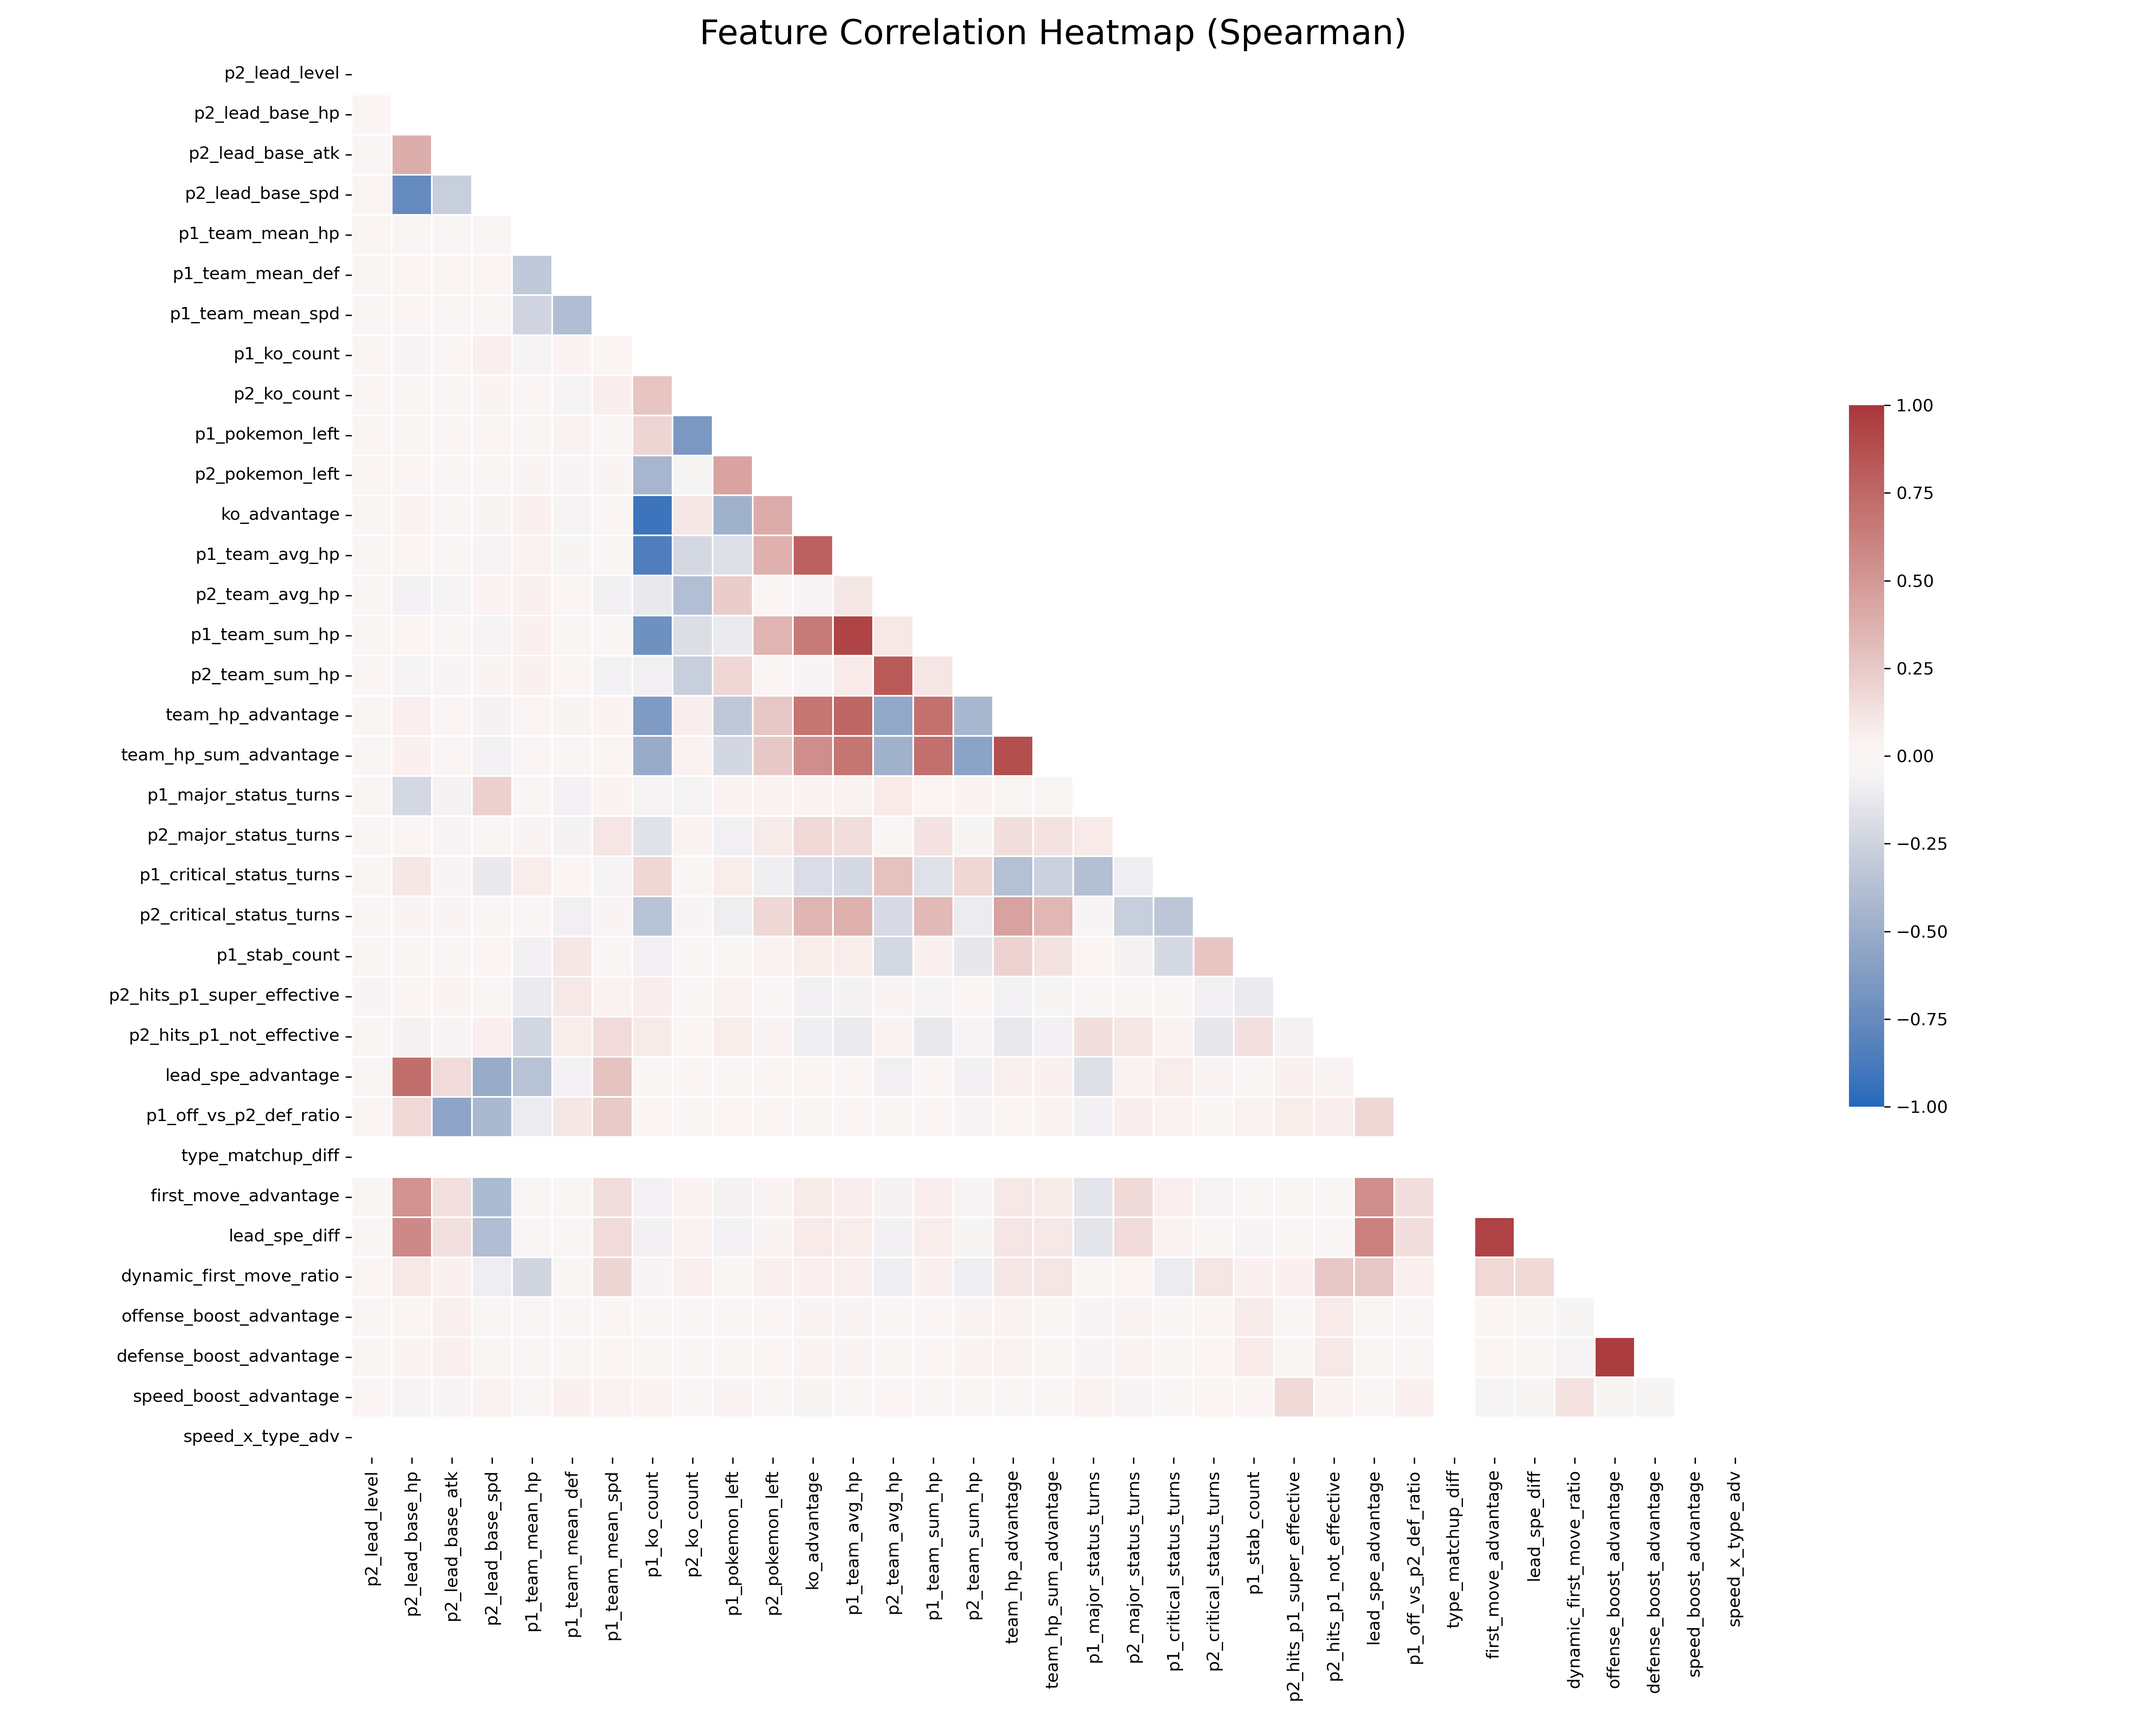
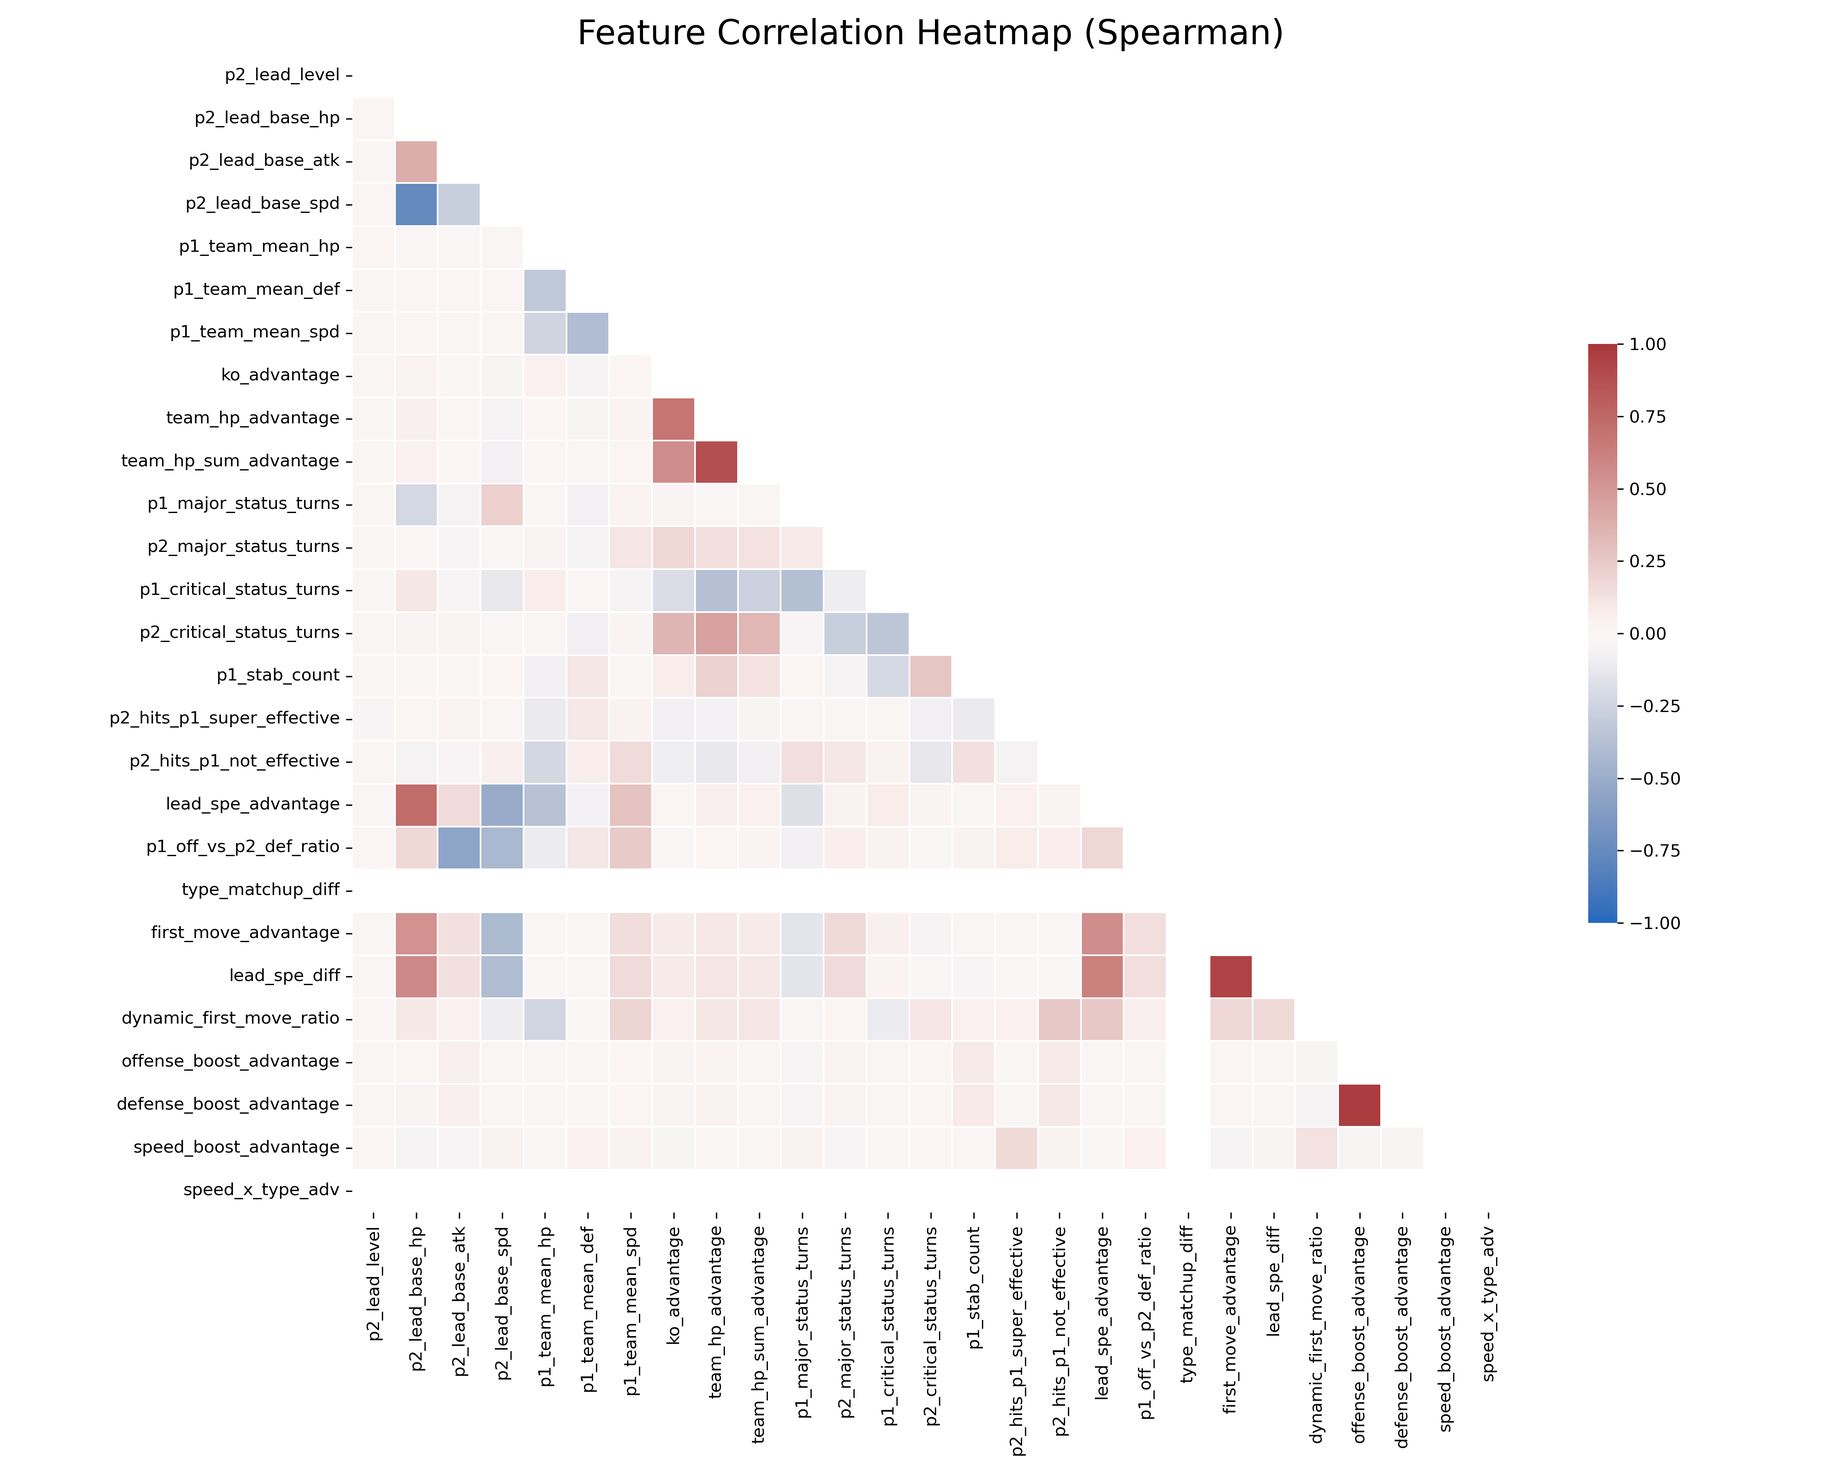
minor changes to version 10

diff --git a/src/data/feature_engineering/features_version_10.py b/src/data/feature_engineering/features_version_10.py
@@ -463,7 +463,15 @@ def feature_engineering_version_10(
         'p2_lead_base_def',
         'p2_lead_base_spa', 'p2_lead_base_spe',
         'p2_lead_defense',
-        'p2_lead_name',      
+        'p2_lead_name', 
+
+        #higly correlated features (NEW PART)
+        #'offense_boost_advantage', 'first_move_advantage', 'team_hp_sum_advantage',
+        #'p1_team_avg_hp', 'p1_ko_count',
+
+        #Inf VIF score
+        #'p2_ko_count','p1_ko_count', 'p2_team_sum_hp','p1_team_sum_hp',
+        #'p1_pokemon_left', 'p2_pokemon_left','p1_team_avg_hp','p2_team_avg_hp'
     ]
     
     # Define columns to drop: temp, original P2 types, and redundant components
